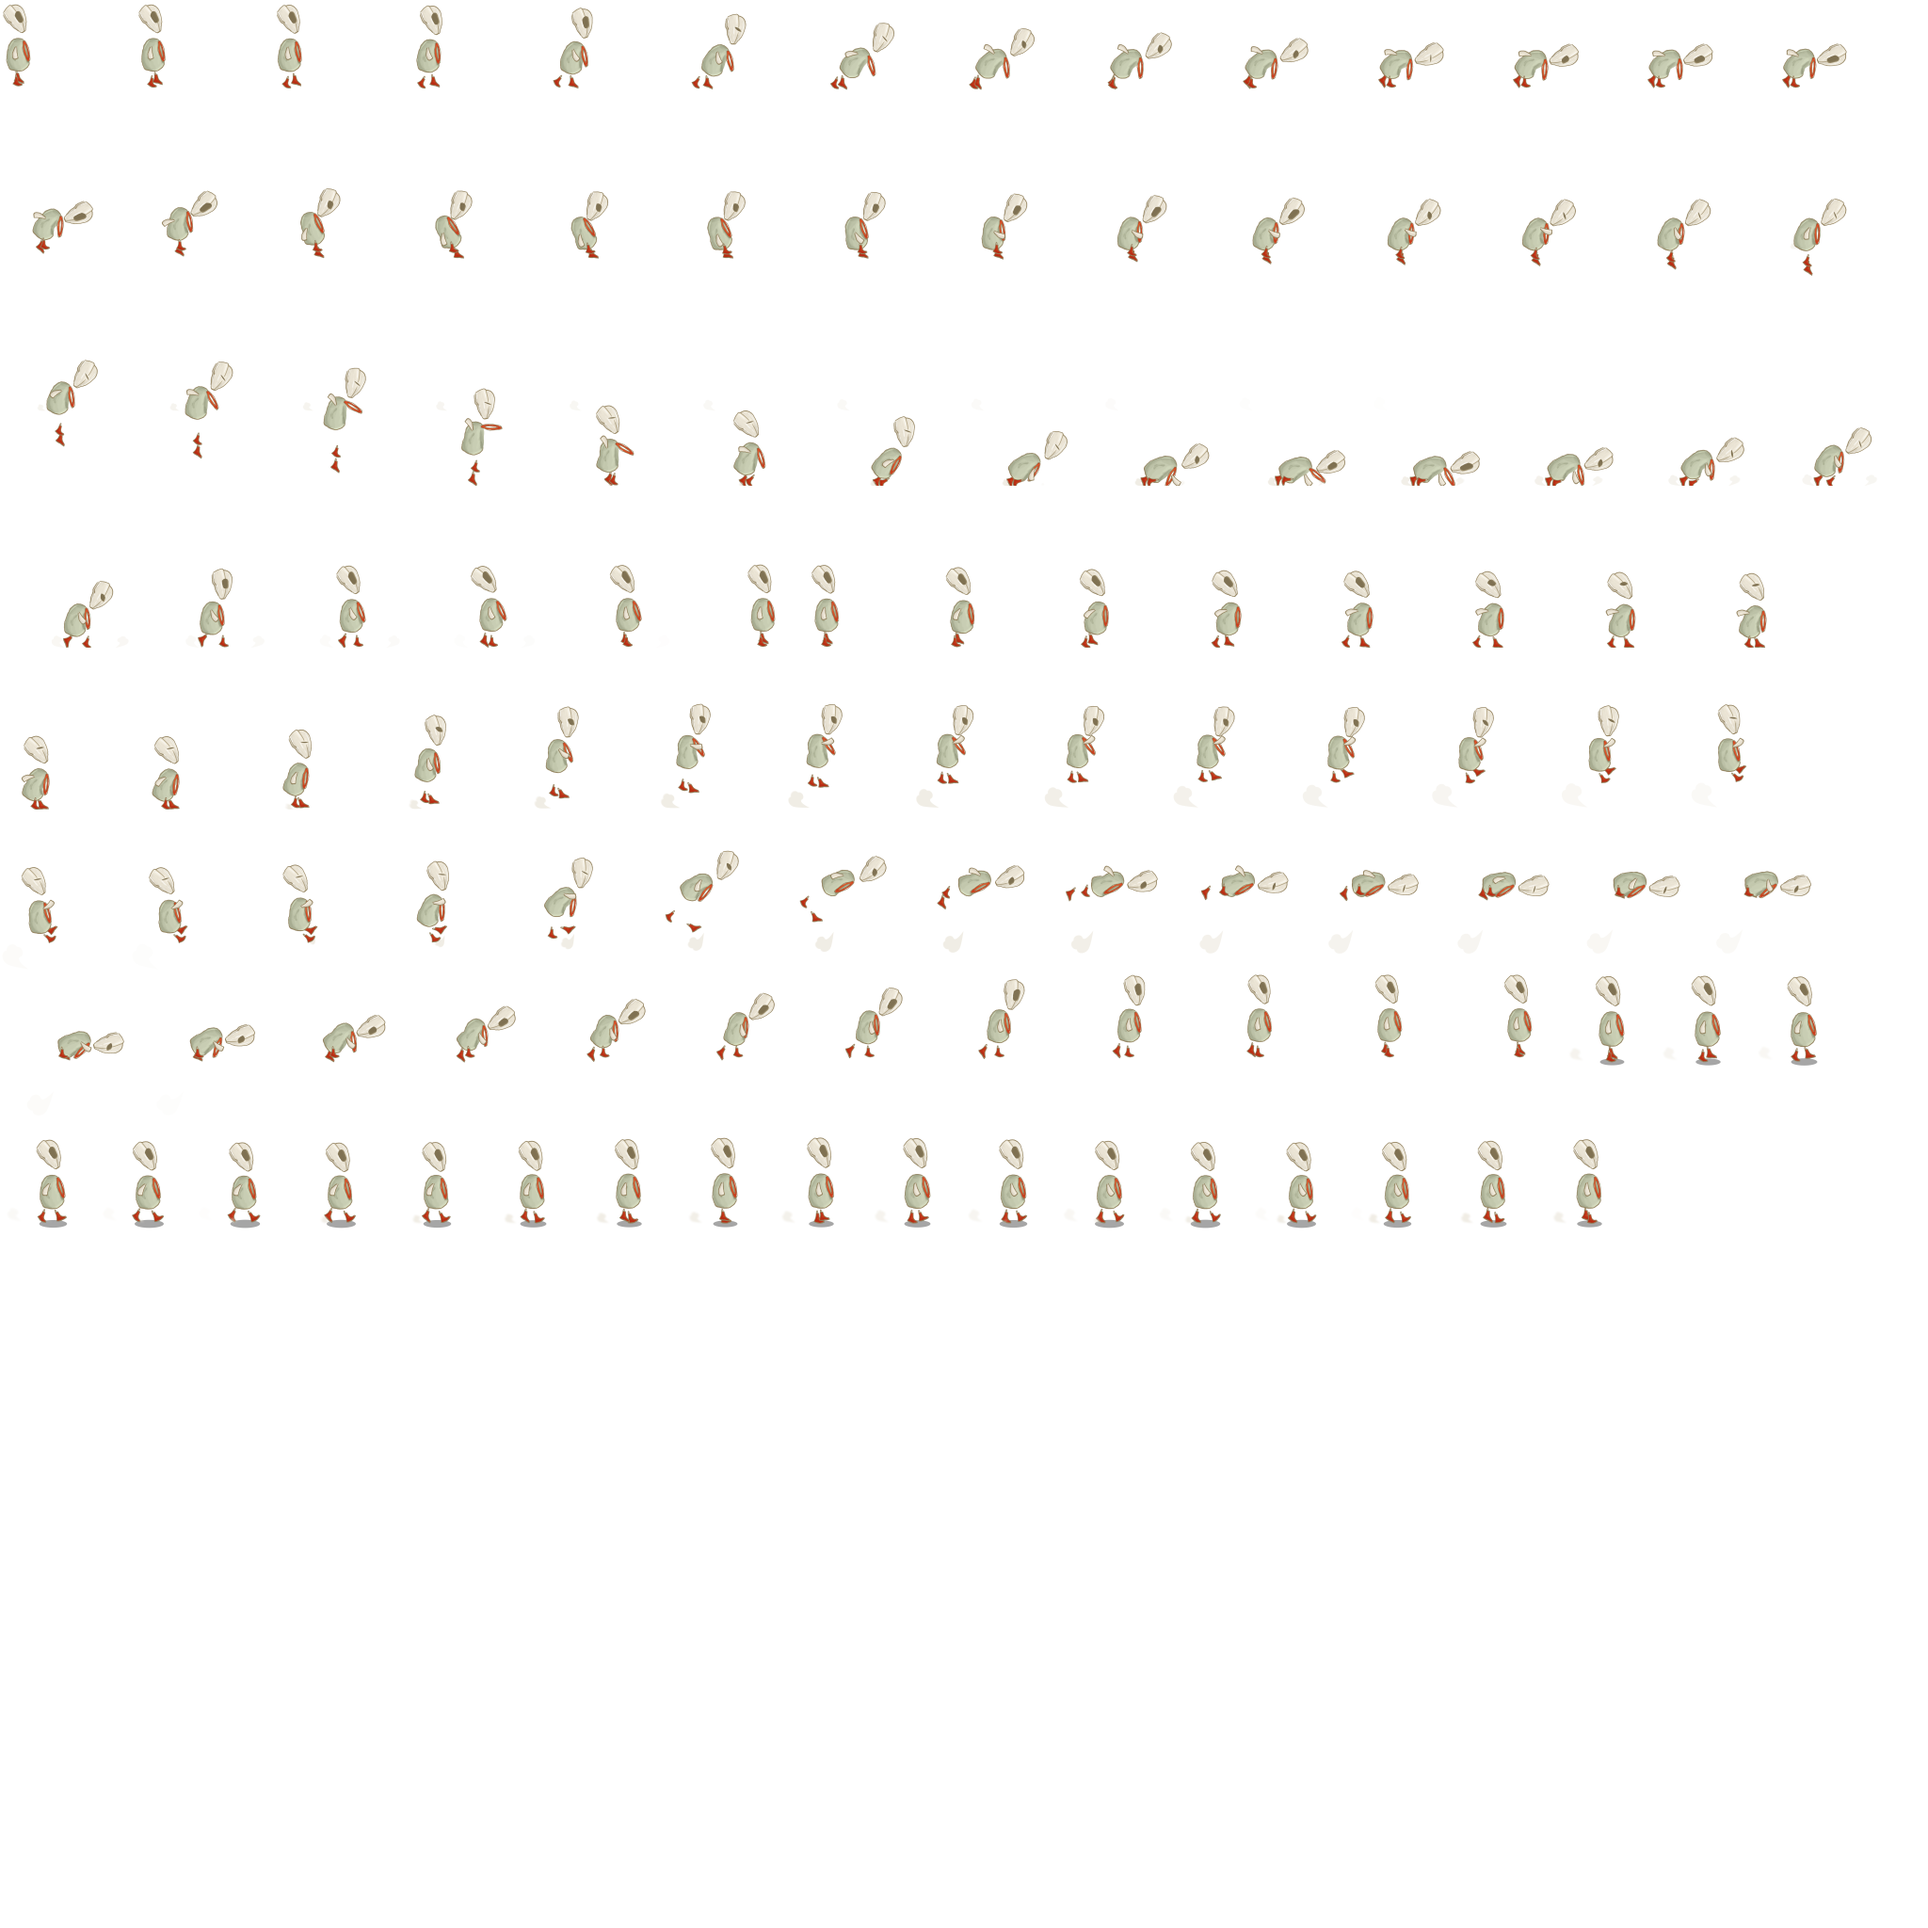
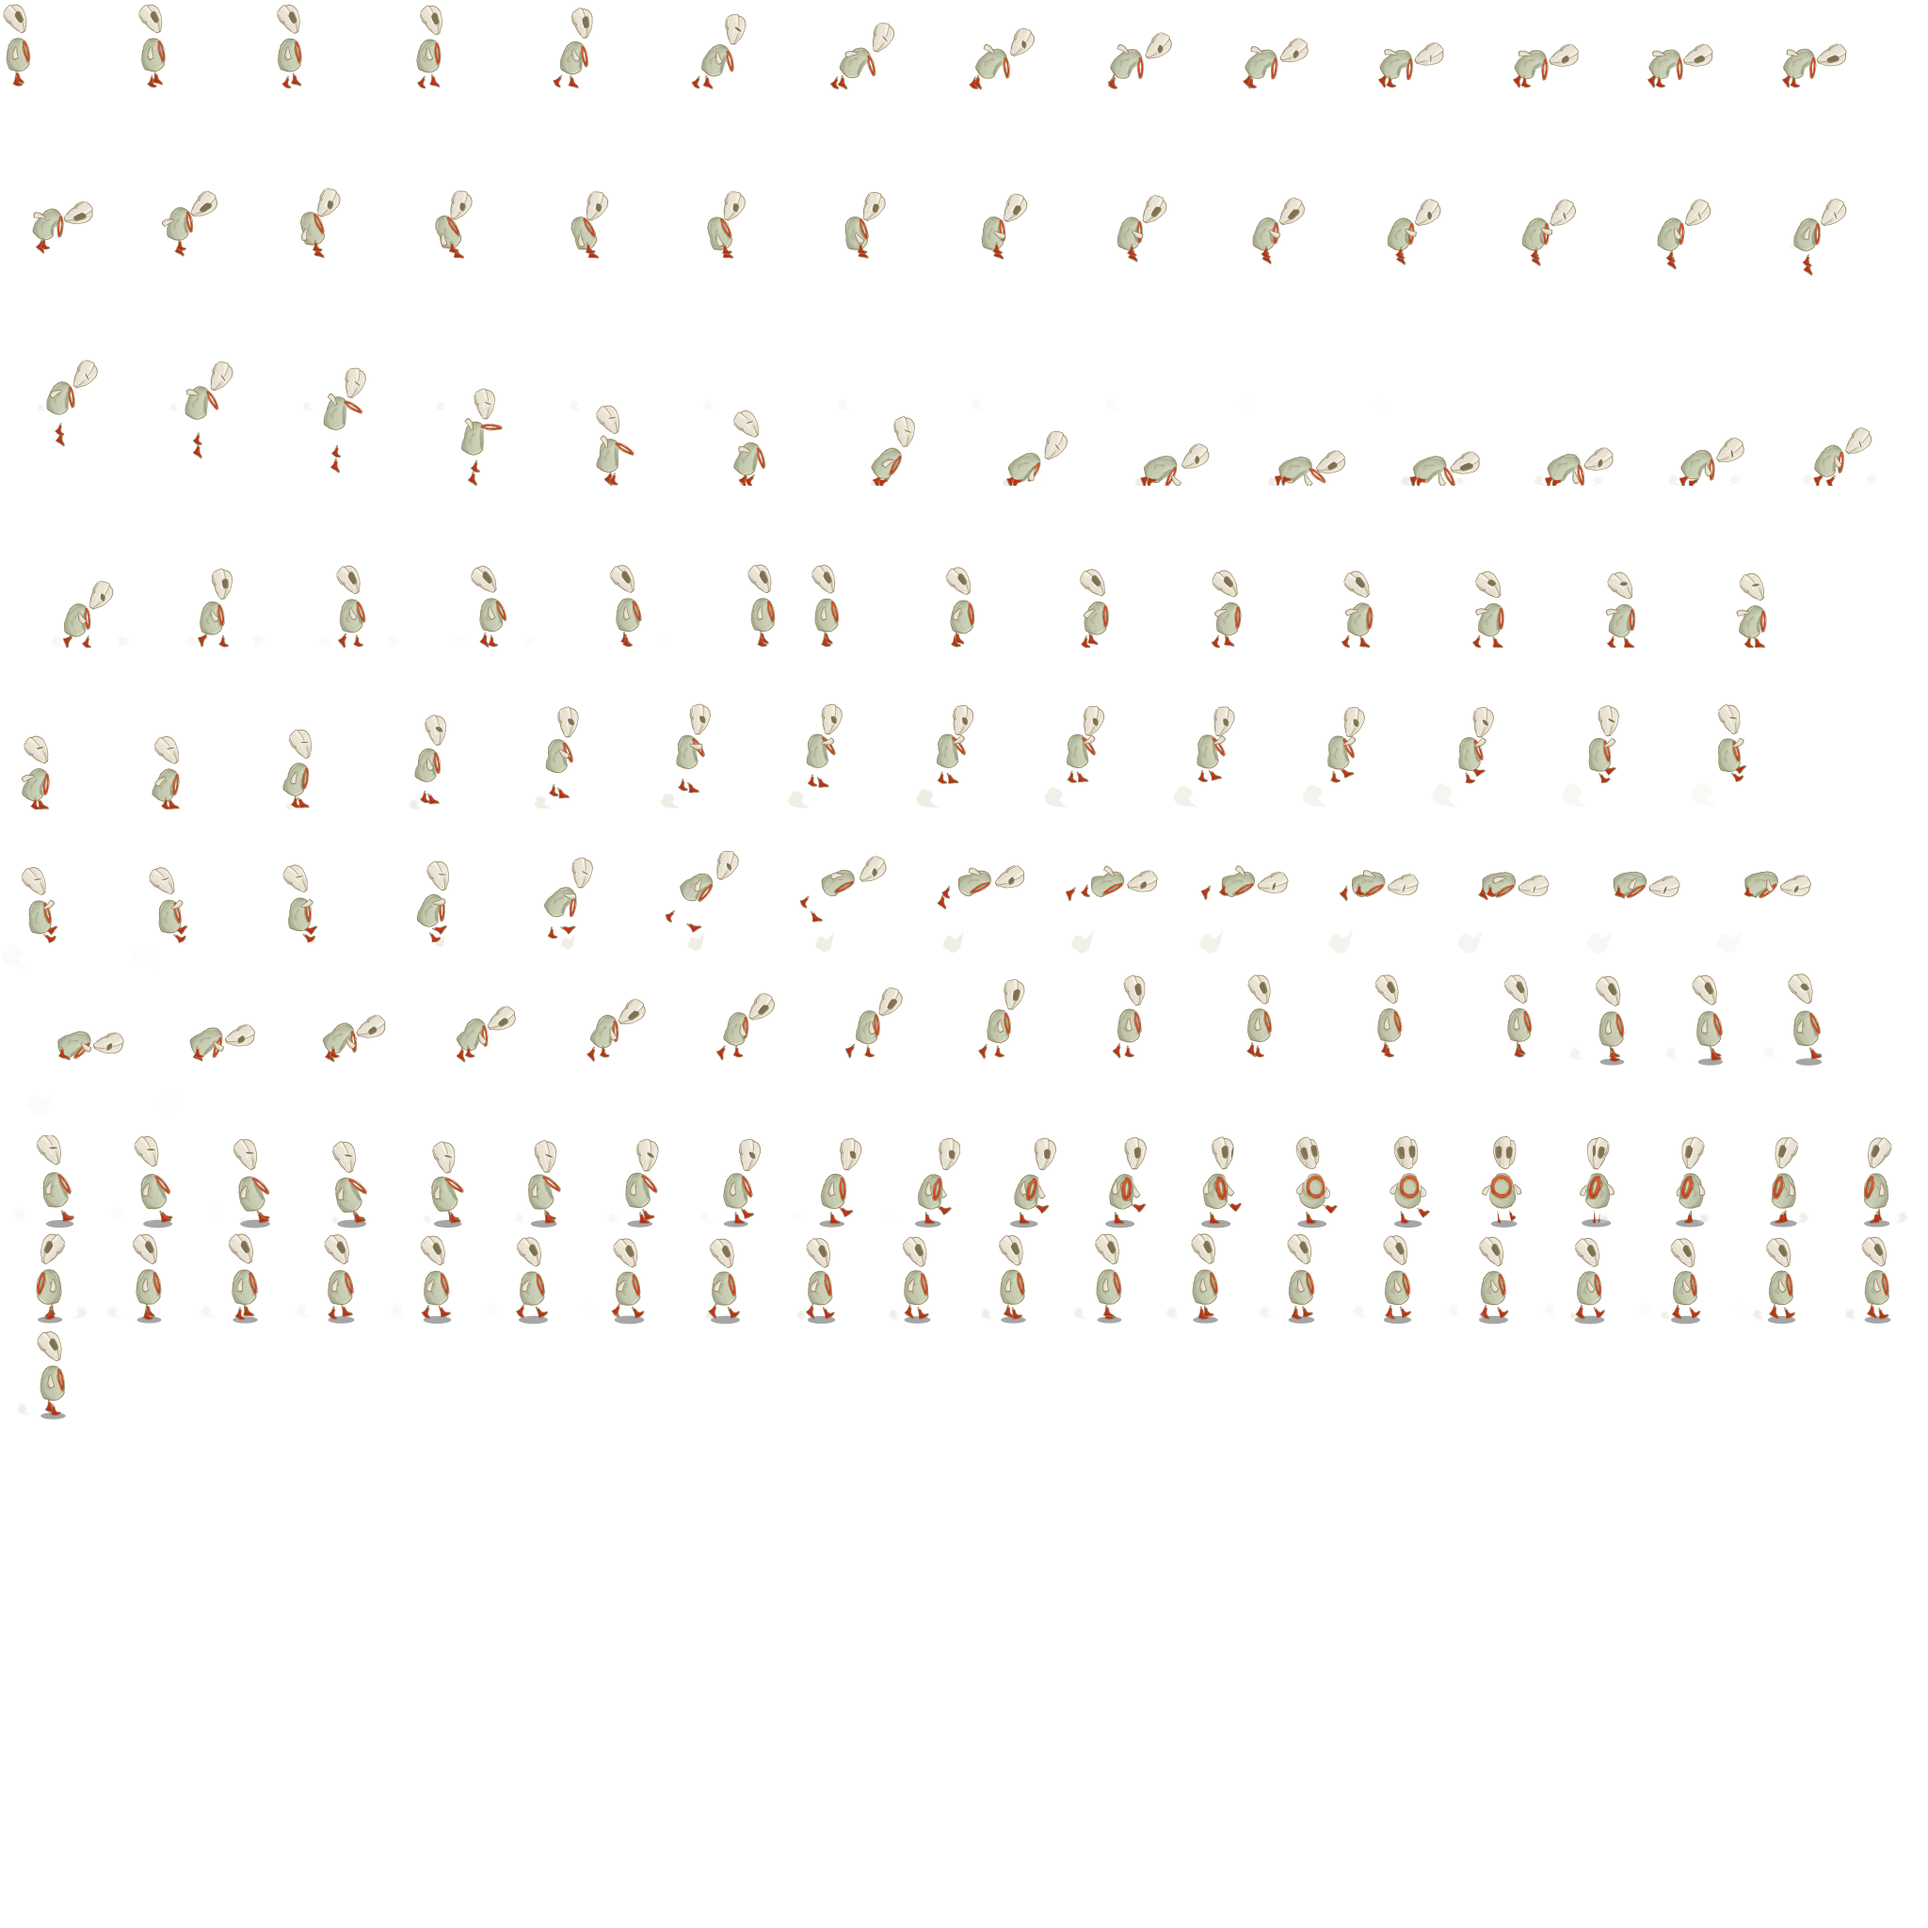
add good guy invert walk. fix block sounds

diff --git a/public/src/states/game.js b/public/src/states/game.js
@@ -282,6 +282,33 @@ module.exports = class Game {
             'jump_DOWN_02_00047.png',
           ], 24, false, false);
 
+          sprite.animations.add('turning', [
+            'opposite_walk_rescale_00000.png',
+            'opposite_walk_rescale_00001.png',
+            'opposite_walk_rescale_00002.png',
+            'opposite_walk_rescale_00003.png',
+            'opposite_walk_rescale_00004.png',
+            'opposite_walk_rescale_00005.png',
+            'opposite_walk_rescale_00006.png',
+            'opposite_walk_rescale_00007.png',
+            'opposite_walk_rescale_00008.png',
+            'opposite_walk_rescale_00009.png',
+            'opposite_walk_rescale_00010.png',
+            'opposite_walk_rescale_00011.png',
+            'opposite_walk_rescale_00012.png',
+            'opposite_walk_rescale_00013.png',
+            'opposite_walk_rescale_00014.png',
+            'opposite_walk_rescale_00015.png',
+            'opposite_walk_rescale_00016.png',
+            'opposite_walk_rescale_00017.png',
+            'opposite_walk_rescale_00018.png',
+            'opposite_walk_rescale_00019.png',
+            'opposite_walk_rescale_00020.png',
+            'opposite_walk_rescale_00021.png',
+            'opposite_walk_rescale_00022.png',
+            'opposite_walk_rescale_00023.png'
+          ], 24, false, false);
+
           sprite.animations.add('falling', ['jump_DOWN_02_00030.png'], 24, true, false);
 
           sprite.animations.play('walk');

diff --git a/public/src/entities/good_guy.js b/public/src/entities/good_guy.js
@@ -3,6 +3,7 @@ var STATE = {
   WALKING: 1,
   CLIMBING: 2,
   CLIMBING_DOWN: 3,
+  TURNING: 4,
 }
 
 module.exports = class GoodGuy {
@@ -71,7 +72,11 @@ module.exports = class GoodGuy {
       this.sprite.play('jump_down');
       this.audioWalking.stop();
       this.audioJumpDown.play();
+
+    } else if (state == STATE.TURNING) {
+      this.sprite.play('turning');
     }
+
   }
 
   get state() {
@@ -155,6 +160,8 @@ module.exports = class GoodGuy {
       }
 
       if (willInvertDirection) {
+        this.state = STATE.TURNING;
+
         // Can't climb, invert direction
         this.sprite.scale.x *= -1;
 

diff --git a/public/src/entities/block_creator.js b/public/src/entities/block_creator.js
@@ -41,7 +41,8 @@ class BlockCreator {
       //_game.objects.add(box);
 
       // play respective audio
-      (Sound.get("block-" + this.block_sprites[spriteId]) || Sound.get("block-undefined")).play();
+      box.audio = Sound.get("block-" + this.block_sprites[spriteId]) || Sound.get("block-undefined");
+      Sound.get("block").play();
 
       box.width = GRID_SIZE_PX;
       box.height = GRID_SIZE_PX;
